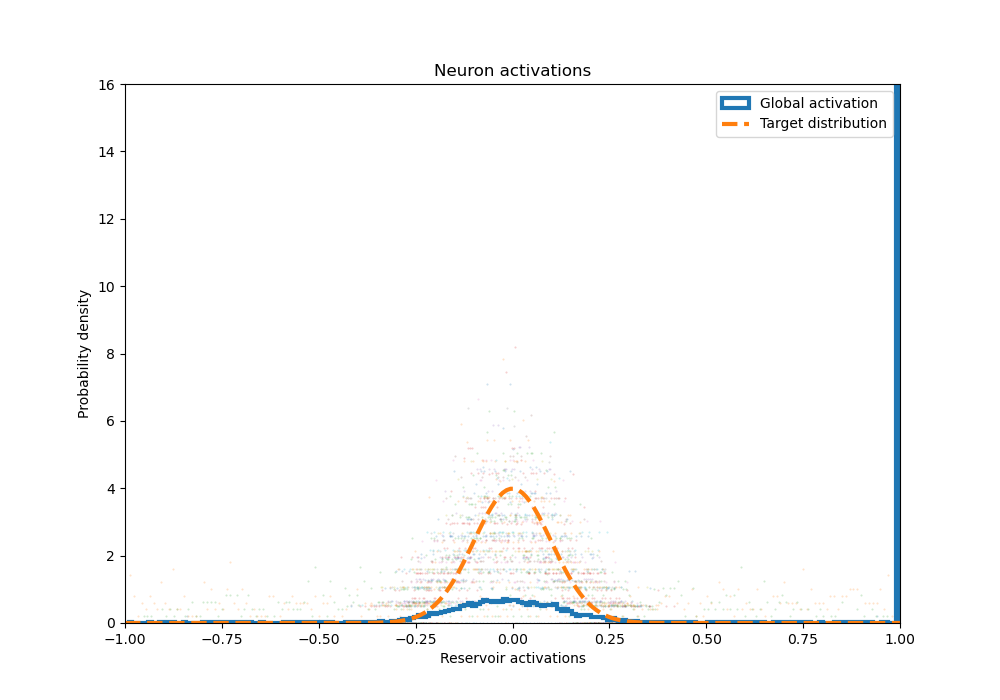
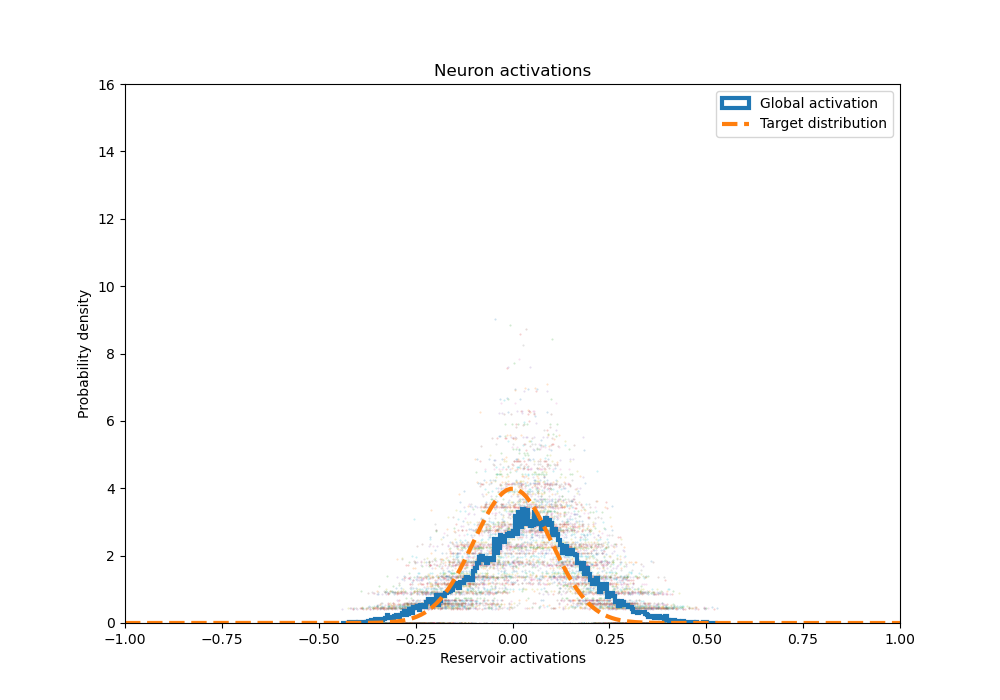
meeting updates

diff --git a/shallow_network.py b/shallow_network.py
@@ -24,7 +24,7 @@ folder_path = "data/01"
 
 IP = True
 TONOTOPIC = False
-SPEC = "Cochlea"  # Choose "Cochlea", "Mel" or "Linear"
+SPEC = "Linear"  # Choose "Cochlea", "Mel" or "Linear"
 
 def load_training_data(folder_path):
     samples = []
@@ -129,6 +129,7 @@ def create_mel_spectrogram(audio, orig_sr):
     S = librosa.power_to_db(S, ref=np.max)
     S = S.T
 
+    S = (S - S.min()) / (S.max() - S.min())
     # print(f"Spectrogram shape: {S.shape}")
 
     if plot:
@@ -154,19 +155,26 @@ def create_spectrogram(audio, orig_sr):
         audio = librosa.resample(audio, orig_sr=orig_sr, target_sr=sr)
 
     # Trim/pad to fixed length
-    audio = trim_or_pad(audio, sr, fixed_length)
+    # audio = trim_or_pad(audio, sr, fixed_length)
 
     # Apply RMS Normalization
     audio = rms_normalize(audio)
 
     # Create Spectrogram, conver to db and transpose to match expected input shape (time_steps, features)
     S = np.abs(librosa.stft(y=audio, win_length=win_length, n_fft=n_fft, hop_length=hop_length))
-    S = librosa.amplitude_to_db(S, ref=np.max) + 80
+    S = librosa.amplitude_to_db(S, ref=np.max)
     S = S.T
+
+    print(S.min())
 
     # Normalize Spectrogram
     # S = librosa.util.normalize(S)
+    S = (S - S.min()) / (S.max() - S.min())
     print(f"Spectrogram shape: {S.shape}")
+
+    # plt.hist(S.flatten(), bins=100)
+    # plt.title("Spec distribution")
+    # plt.show()
 
     if plot:
         plot_waveform(audio, sr, title="After RMS")
@@ -255,7 +263,8 @@ def create_training_data():
     return X, Y, X_train, X_test, Y_train, Y_test
 
 def create_input_weights(reservoir):
-    reservoir.Win = np.random.uniform(0.5, 1, (reservoir.units, input_d))
+    n = 1/128
+    reservoir.Win = np.random.uniform(n, n, (reservoir.units, input_d))
 
     # Apply mask for sparsity
     mask = np.random.rand(reservoir.units, input_d) < p

diff --git a/biological_constraints.py b/biological_constraints.py
@@ -2,10 +2,14 @@ import numpy as np
 from reservoirpy.datasets import narma
 from utils import plot_pdf
 import random
+import matplotlib.pyplot as plt
+import matplotlib
 
 def apply_ip(reservoir, X):
     # TODO maak netjes
-    reservoir.Win = np.random.uniform(0.5, 1, (reservoir.units, 1))
+    n = 1/128
+
+    reservoir.Win = np.random.uniform(n, n, (reservoir.units, 1))
     # Apply mask for sparsity
     mask = np.random.rand(reservoir.units, 1) < 0.1
     reservoir.Win *= mask
@@ -13,6 +17,10 @@ def apply_ip(reservoir, X):
     T = 1000
     _, X_narma = narma(T)
     _ = reservoir.fit(X_narma, warmup=100)
+
+    # plt.hist(S.flatten(), bins=100)
+    # plt.title("Spec distribution")
+    # plt.show()
 
     # states = reservoir.run(X_narma[100:])
     # plot_pdf(states, 0.1, title="little test")
